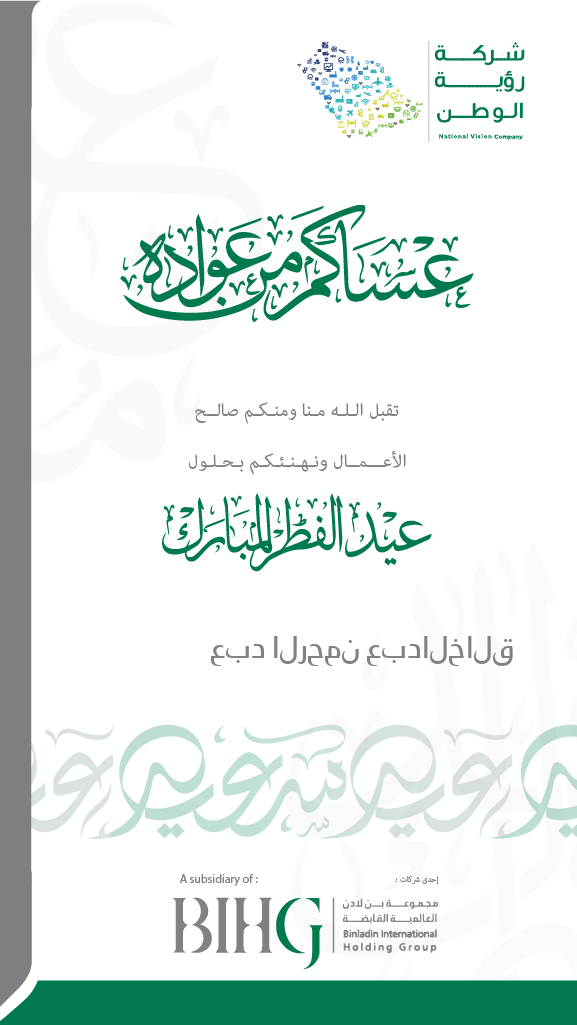
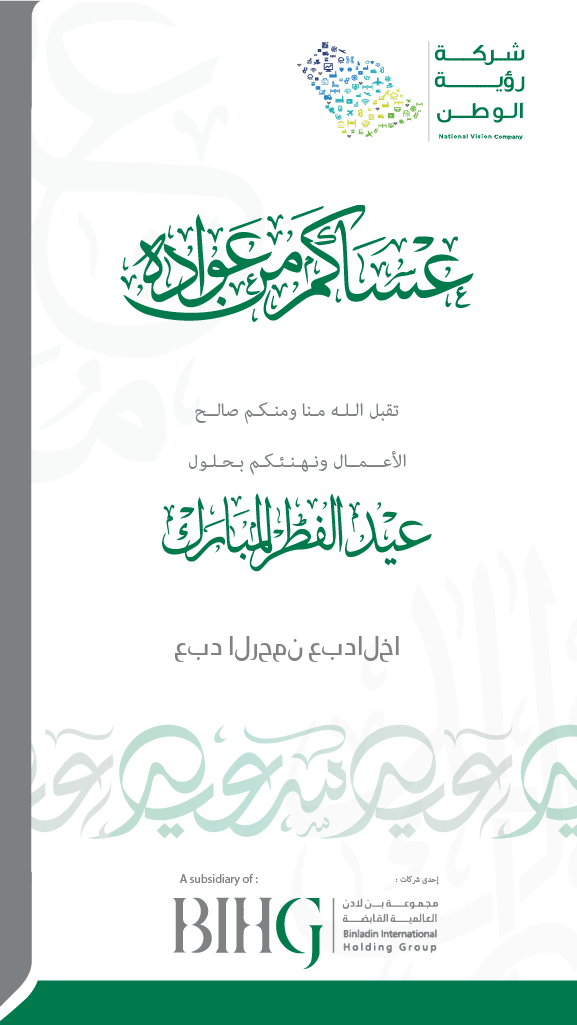
working project

Changed region(s): [[0.2808, 0.6244, 0.9047, 0.6556]]

diff --git a/newapp/views.py b/newapp/views.py
@@ -127,7 +127,27 @@ def card(request):
 		my_image = Image.open("card.png")
 		title = name_com
 		image_edit = ImageDraw.Draw(my_image)
-		image_edit.text((205,637), title, (130, 130, 131), font=title_font)
+
+
+		if 5 <= len(name_com) <= 10:
+			image_edit.text((220, 637), title, (130, 130, 131), font=title_font)
+
+		if 11 <= len(name_com) <= 14:
+			image_edit.text((205, 637), title, (130, 130, 131), font=title_font)
+
+		elif 15 <= len(name_com) <= 20:
+			image_edit.text((175, 637), title, (130, 130, 131), font=title_font)
+
+		elif 21 <= len(name_com) <= 26:
+			image_edit.text((150, 637), title, (130, 130, 131), font=title_font)
+
+		# else:
+		# 	image_edit.text((180, 637), title, (130, 130, 131), font=title_font)
+
+
+		# elif len(name_com) > 26:
+		# 	image_edit.text((130, 637), title, (130, 130, 131), font=title_font)
+
 		my_image.save("newcard.png")
 		image = "newcard.png"
 		# cloudinary.uploader.upload(image)
